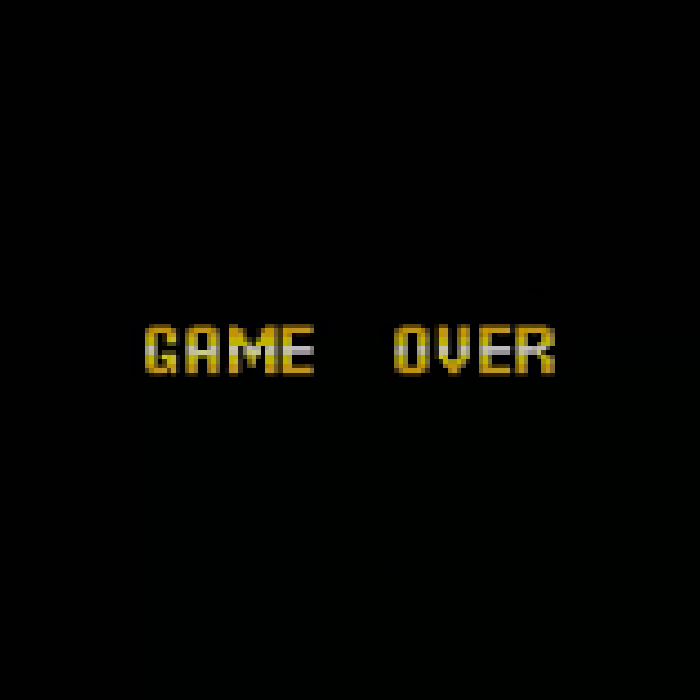
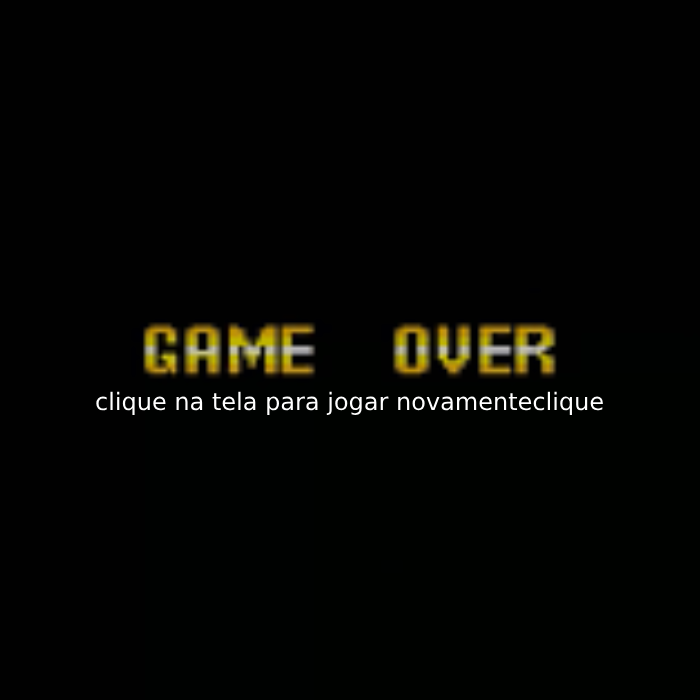
botao de reestart

Changed region(s): [[0.12, 0.45, 0.87, 0.6]]

diff --git a/main.py b/main.py
@@ -78,6 +78,12 @@ while True:
             pygame.quit()
             sys.exit()
 
+    if event.type == pygame.MOUSEBUTTONDOWN and game_over:
+            # Se o jogo estiver no estado Game Over e o usuário clicar, reinicie o jogo
+            game_over = False
+            sprites = [(sem1, (200, 150)), (sem2, (100, 450)), (sem3, (500, 150)), (sem4, (400, 450))]
+            tempo_acumulado = pygame.time.get_ticks()
+
     if not game_over:
         # Atualizar a posição dos carros existentes
         for i, (sprite, pos) in enumerate(sprites):
